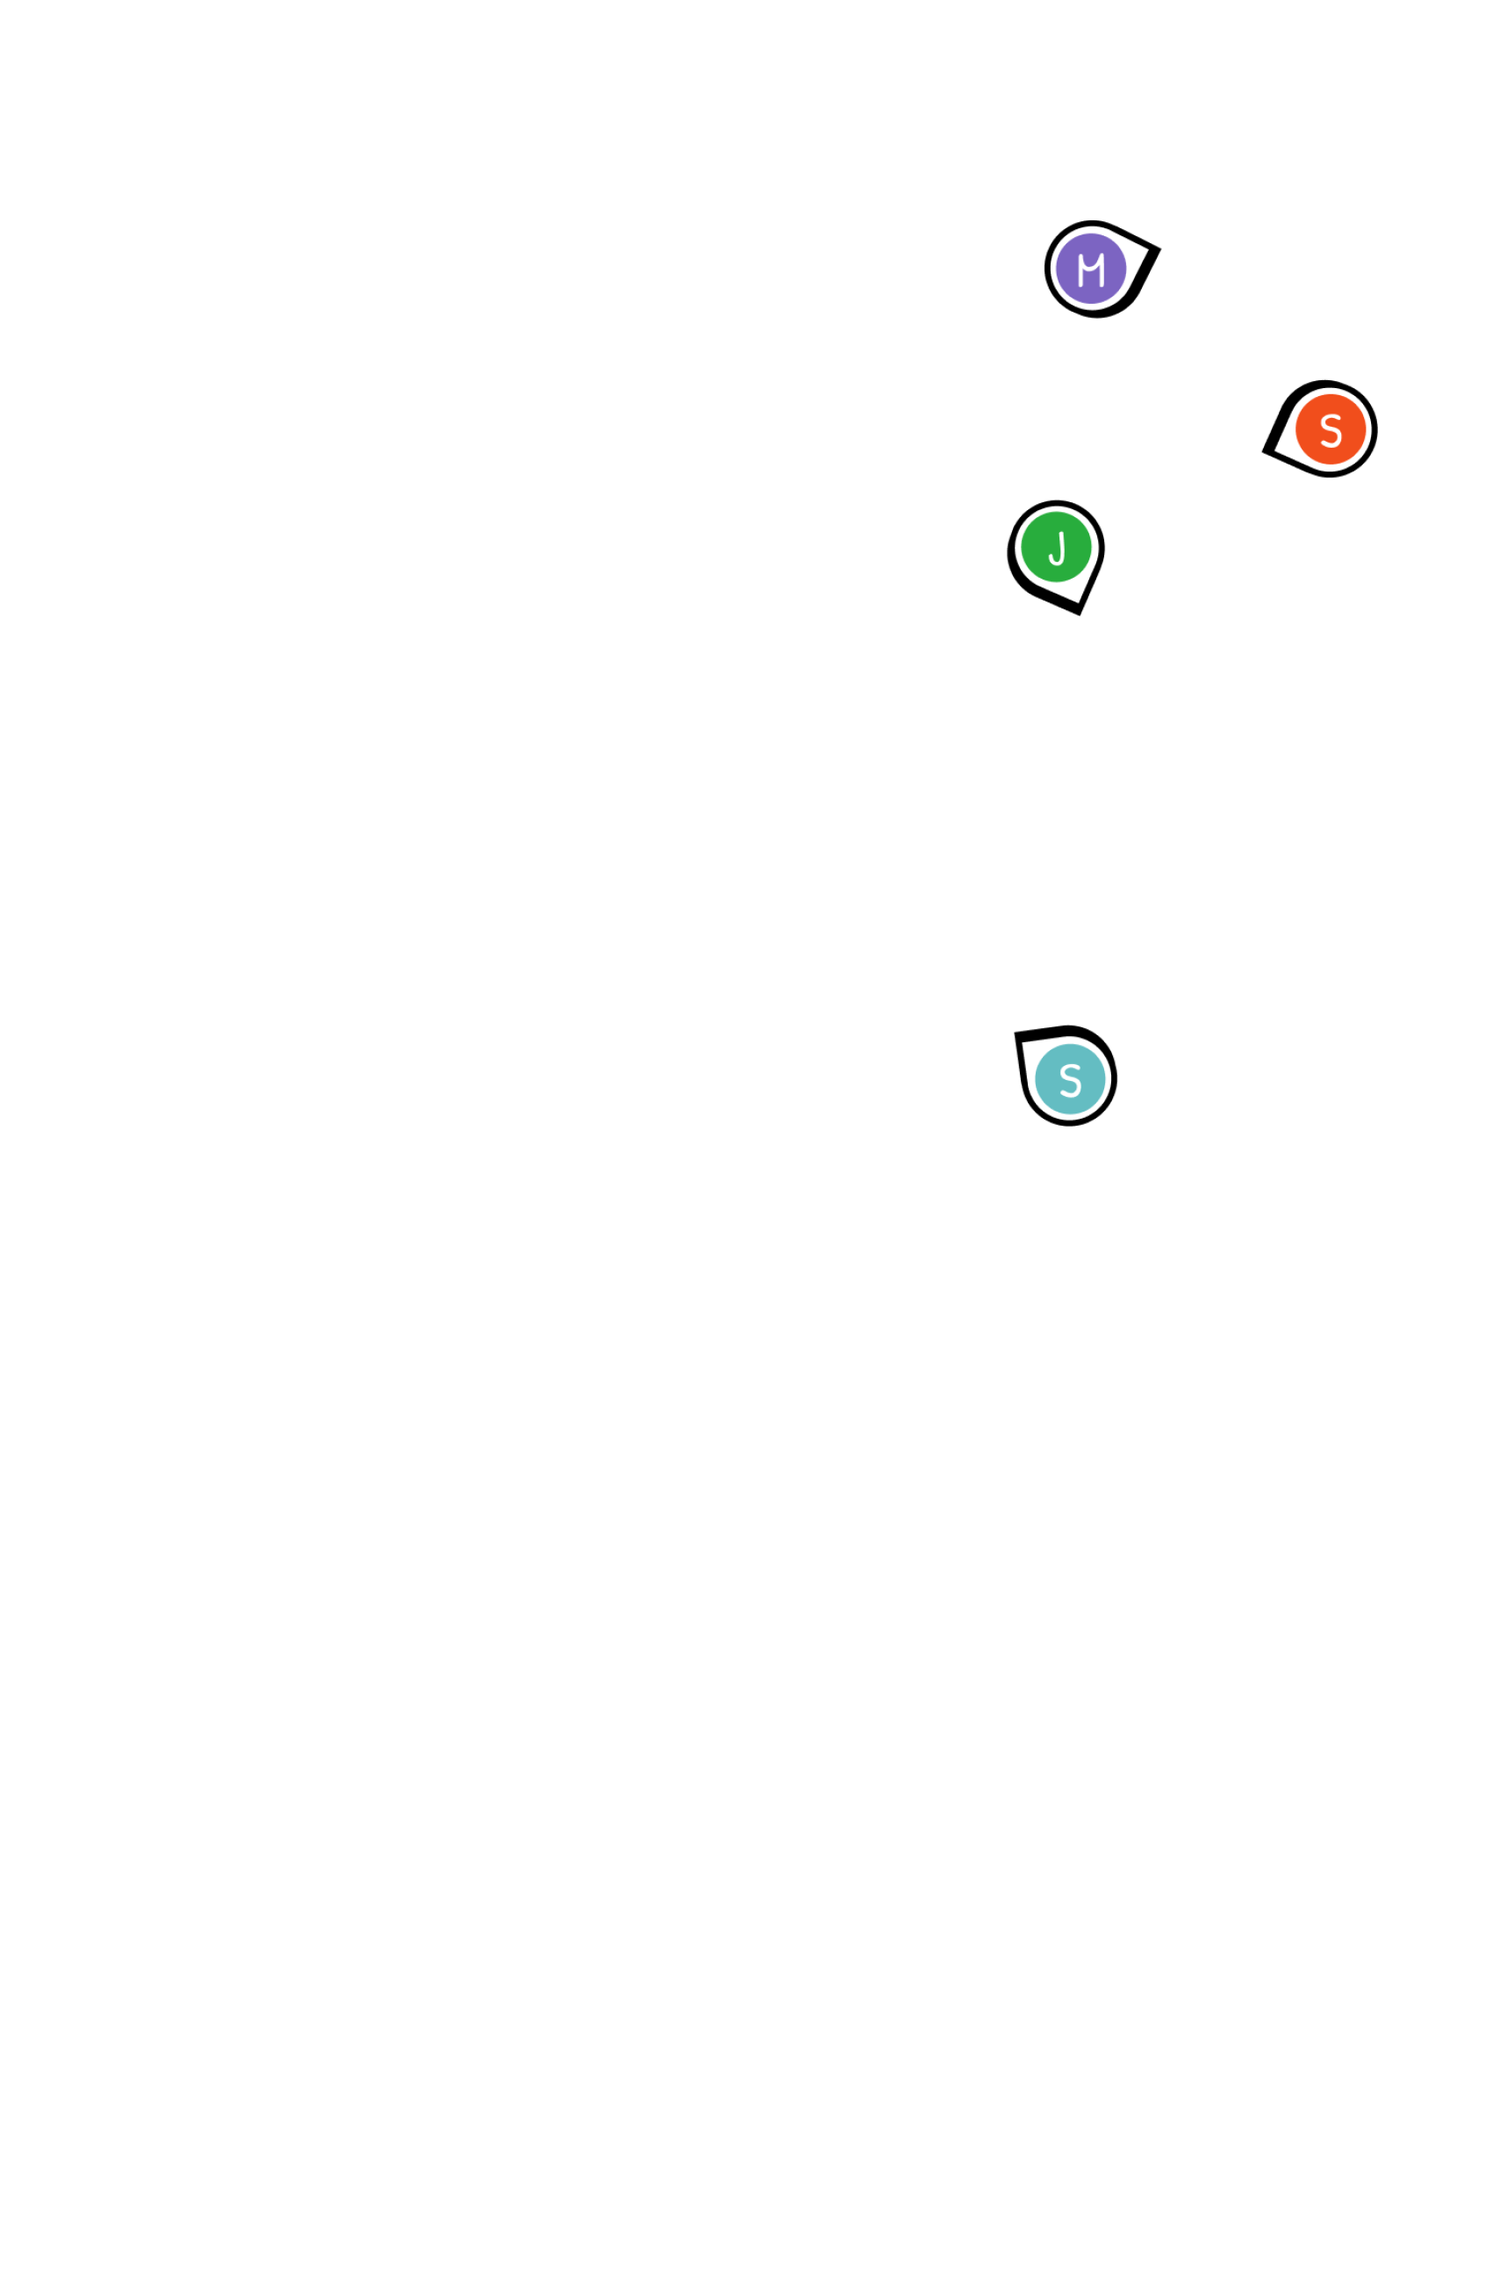
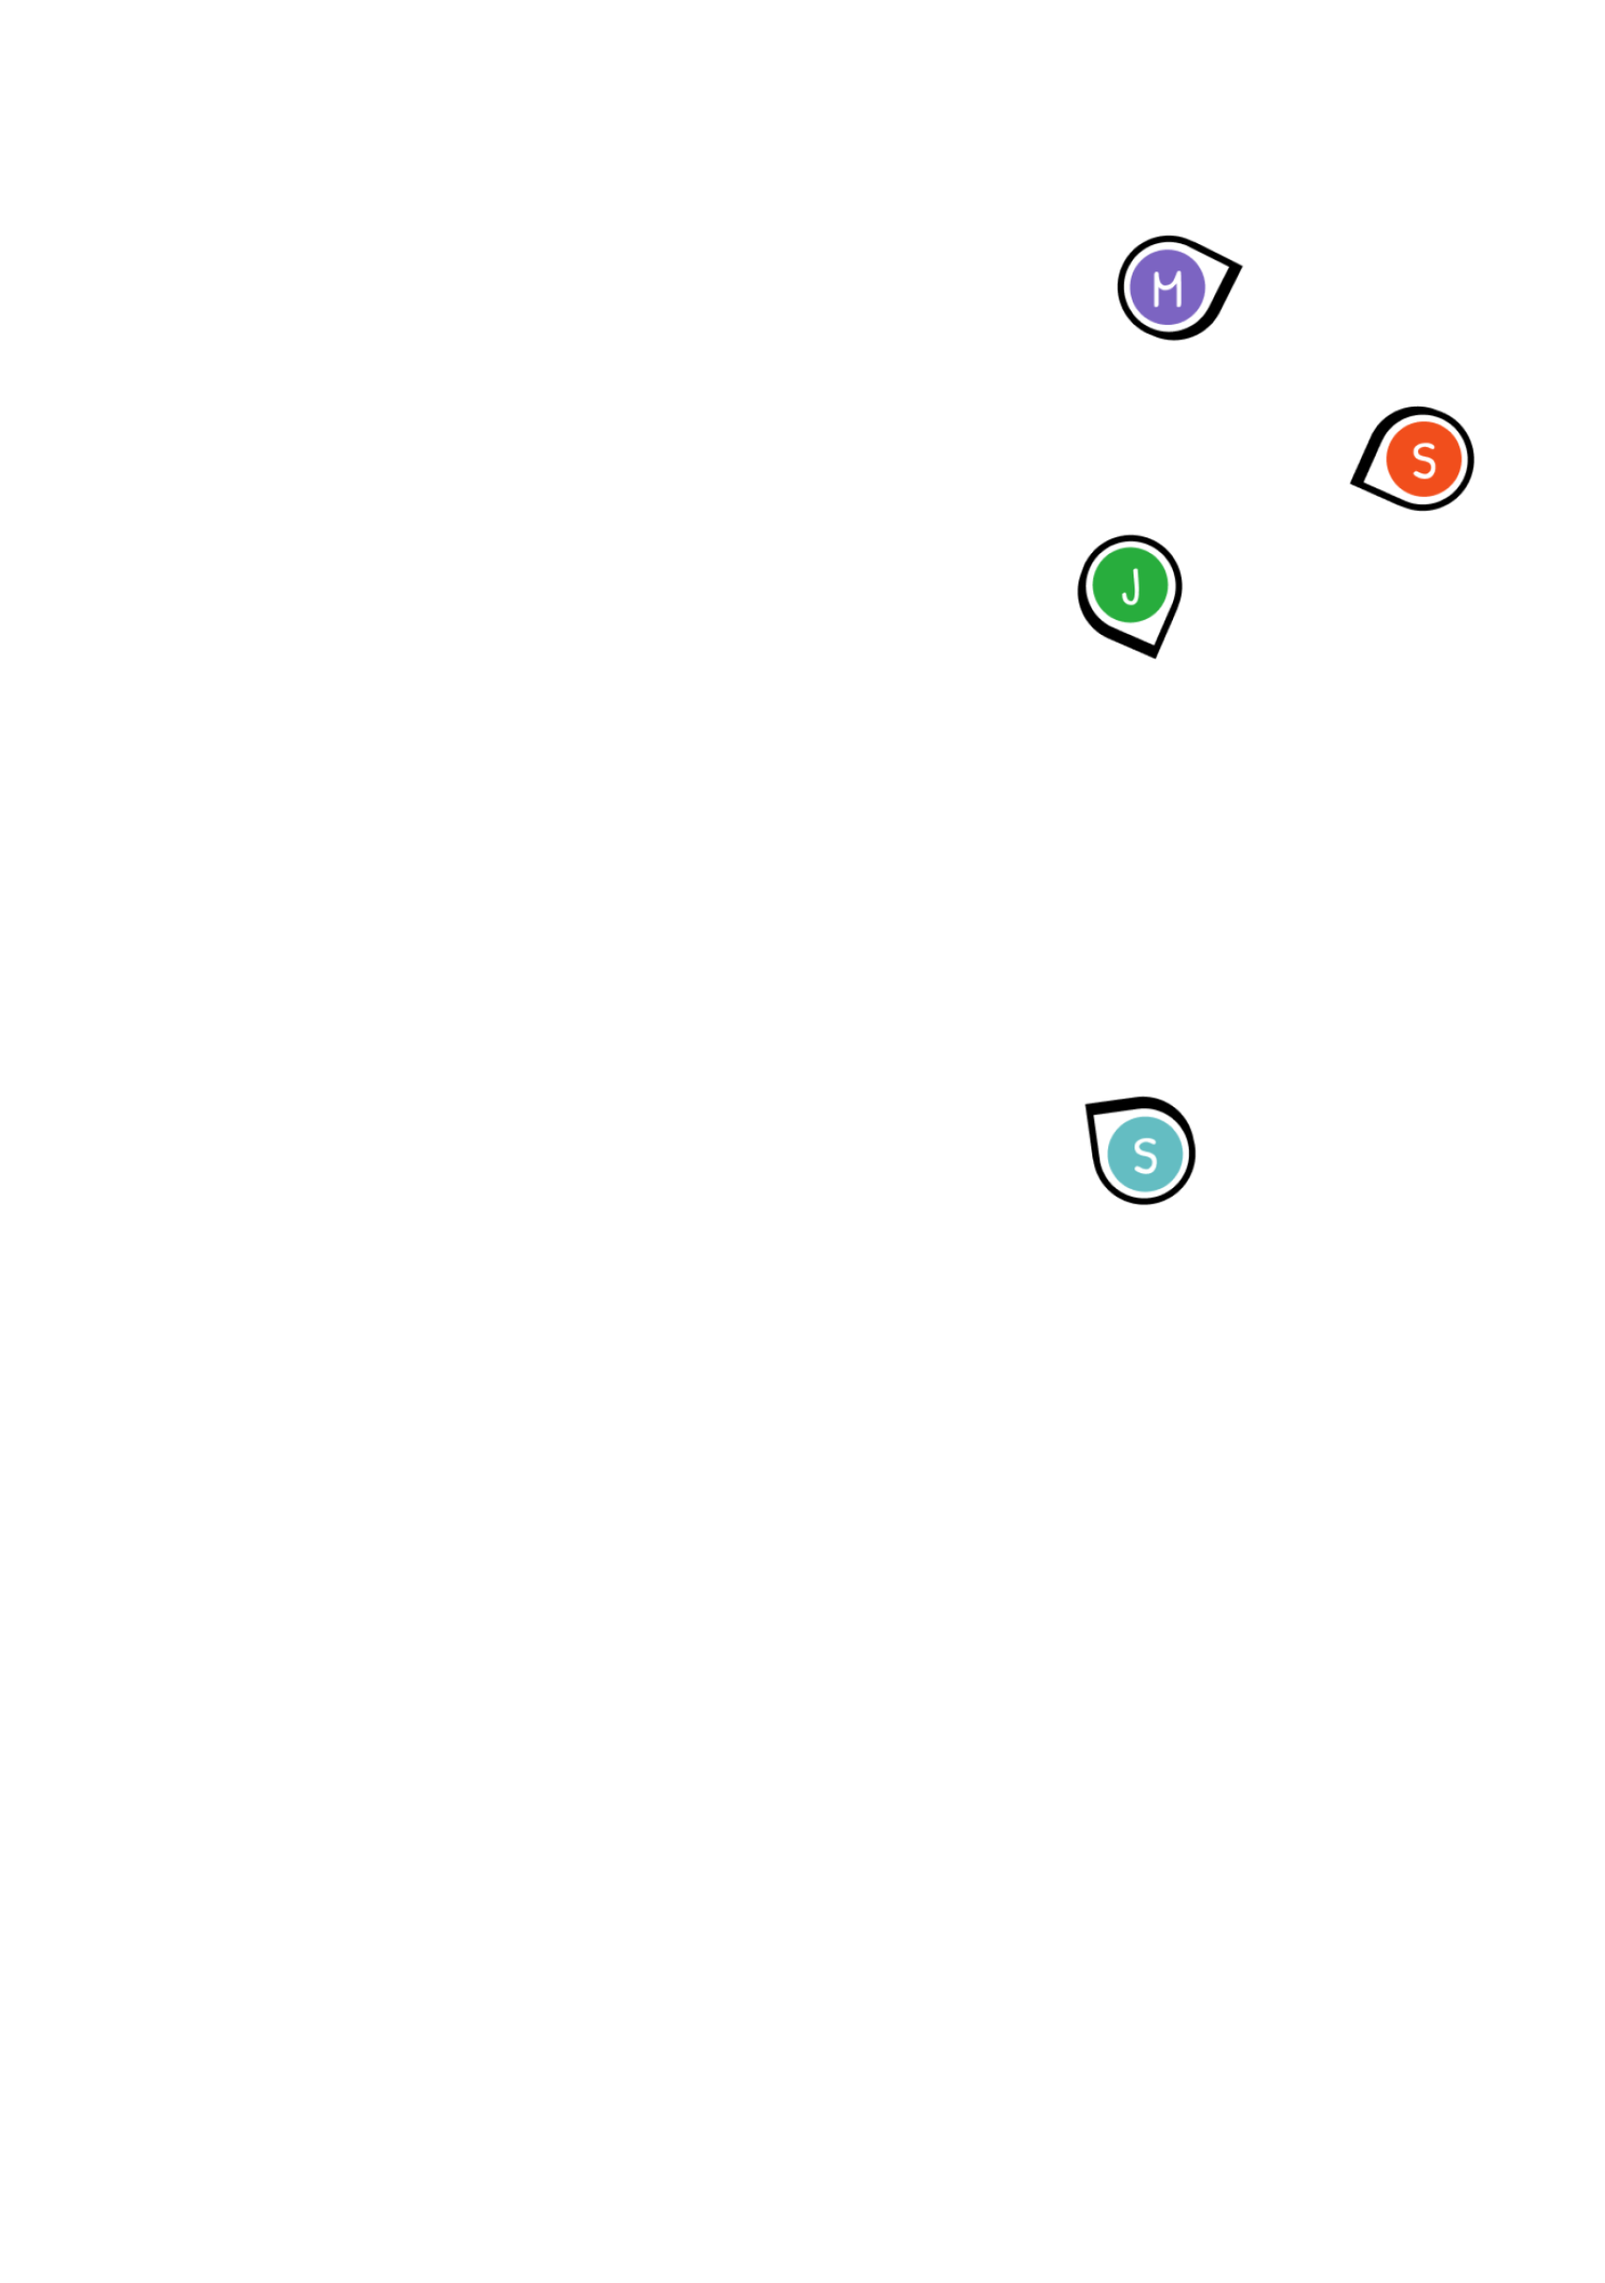
💕 Add the rest of the cards to header

diff --git a/packages/frontend/pages/index.tsx b/packages/frontend/pages/index.tsx
@@ -10,7 +10,13 @@ const Home: NextPage = () => {
     <PageLayout title={"vibeo"}>
       <Box flexDirection={"column"} minH={"100vh"} display={"flex"}>
         <Box userSelect={"none"} flex={"1"}>
-          <Card w={600} left={100} top={240} position={"absolute"} p={"3em"}>
+          <Card
+            w={600}
+            left={100}
+            top={{ lg: "80px", xl: "200px" }}
+            position={"absolute"}
+            p={"3em"}
+          >
             <Heading flexGrow={1} fontWeight={"normal"} fontSize={"7xl"}>
               vibeo
             </Heading>
@@ -22,16 +28,36 @@ const Home: NextPage = () => {
             </Button>
           </Card>
 
+          <Card left={200} top={1384} p={2} position={"absolute"}>
+            <Image
+              src={"https://via.placeholder.com/439x257"}
+              alt={"placeholder"}
+              width={"100%"}
+              borderRadius={"md"}
+            />
+          </Card>
+
+          <Card left={824} top={1714} p={2} position={"absolute"}>
+            <Image
+              src={"https://via.placeholder.com/439x257"}
+              alt={"placeholder"}
+              width={"100%"}
+              borderRadius={"md"}
+            />
+          </Card>
+
+          <Image
+            fit={"fill"}
+            position={"absolute"}
+            src={"bg-base.png"}
+            zIndex={"-2"}
+          />
           <Image
             fit={"fill"}
             src={"bg-marker.png"}
-            style={{
-              userSelect: "none",
-              position: "absolute",
-              zIndex: "1",
-            }}
+            userSelect={"none"}
+            zIndex={"-1"}
           />
-          <Image fit={"fill"} src={"bg-base.png"} zIndex={"0"} />
         </Box>
       </Box>
       <Footer />
